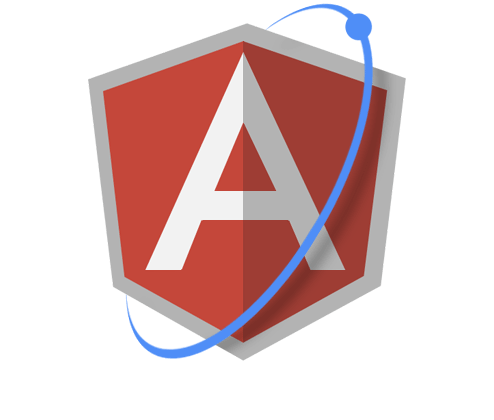
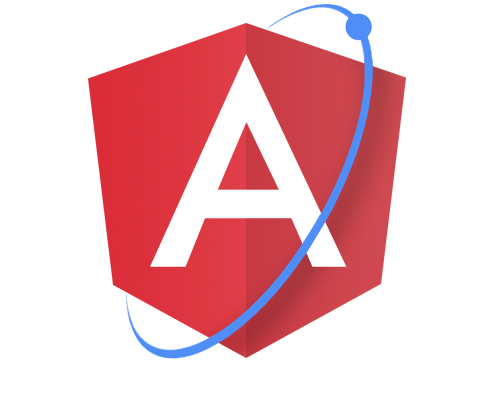
Add blog read more collapse, replace Angular img

diff --git a/_posts/2015-03-11-angular-2-ionic.md b/_posts/2015-03-11-angular-2-ionic.md
@@ -10,12 +10,14 @@ meta_description: Ionic v2 is in the works, complete with Angular 2 support. Rea
 
 <img src="/img/blog/ionic-angular-v2.jpg" style="min-width:100%"/>
 
-Hey Ions,
+Hey Ionites,
 
 After a hugely successful [ngConf](http://www.ng-conf.org/) last week, the Ionic office is abuzz with Angular 2, and what it means
 for Ionic. The number one response from ngConf is that Angular is here to stay, and will only continue to dominate in the future. We are all investing in the right framework.
 
 With that in mind, I want to quickly address the questions we've gotten about Angular 2, and what it means for Ionic.
+
+<!-- more -->
 
 First of all, we will absolutely be supporting Angular 2, and we will release full Angular 2 support in Ionic v2. In fact, we are already working on it! I don't have a timeline for that (yet!), but chances are it will come earlier than v1 did :) And, of course, we will support Ionic v1 through all of this!
 
